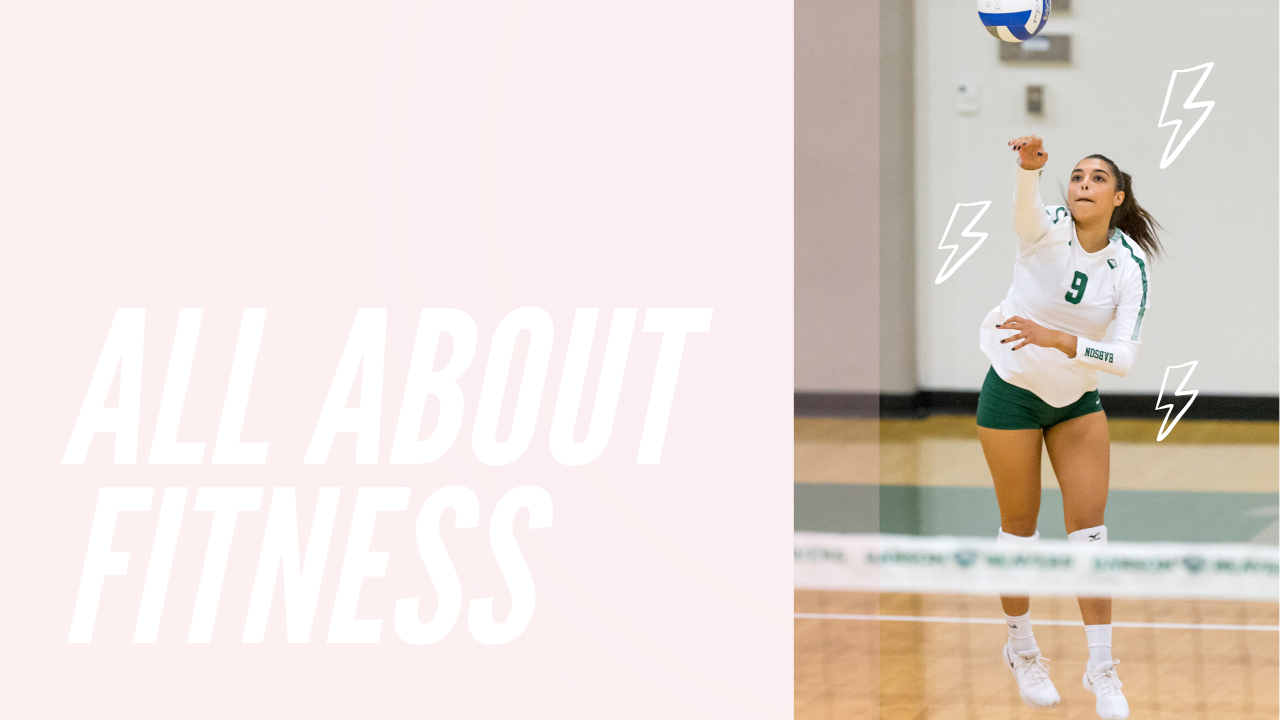
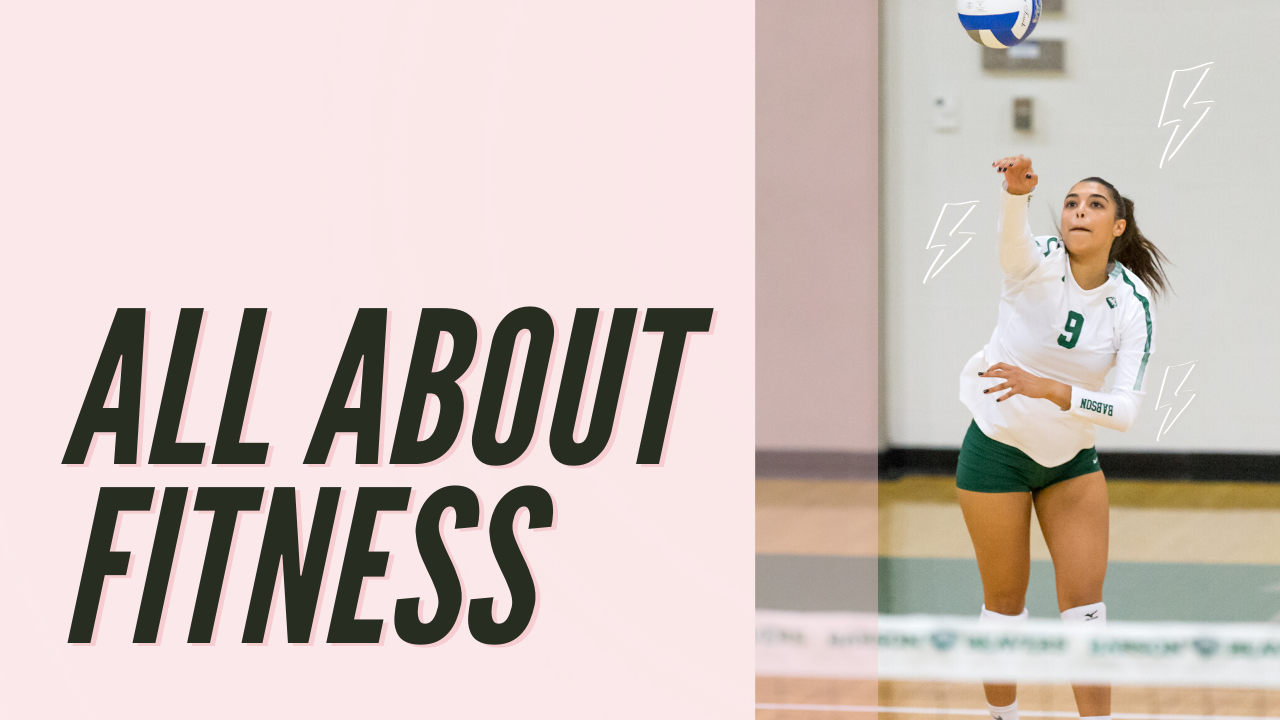
fitness

diff --git a/fitness.html b/fitness.html
@@ -14,32 +14,224 @@
   gtag('config', 'UA-169867388-1');
 </script>
 
+<style>
+
+h1 {  
+        margin-left: auto;
+        margin-right: auto;
+        margin-top: unset;   
+        margin-bottom: unset;     
+        text-align: center;
+        font-family: 'Montserrat', sans-serif;
+        top: 20%;
+        left: 20%;
+        font-size:80pt;
+        letter-spacing:0.1em;
+  -webkit-text-fill-color: transparent;
+  -webkit-text-stroke-width: 3px;
+  -webkit-text-stroke-color: #ffe6ee;
+  text-shadow: 8px 8px #ff1f8f, 20px 20px #000000;
+    
+    }
+
+ .topnav {
+        width: 100%;
+        display: block;
+        margin-left: auto;
+        margin-right: auto;
+        text-align: center;
+        
+    }
+
+    .topnav a {
+        padding: 14px 26px;
+        text-decoration: none;
+        color: black;
+        text-transform: uppercase;
+        font-size: 30pt;
+        font-family: 'Staatliches', cursive;
+    }
+
+    .topnav img {
+        margin-top: none;
+        margin-bottom: none;
+    }
+    a:link {
+        color: black;
+    }
+
+    a:visited {
+        color: black;
+    }
+
+    a:hover{
+        color: #ffe6ee ;
+    }
+    
+    a:active{
+        color: #ffe6ee;
+    }
+
+    hr {
+        width: 90%;
+    }
+    .body {
+        width: 100%;
+        
+    }
+    .align {
+        text-align: center;
+        padding: 25px 35px 25px 25px;
+    }
+
+.container {
+  position: relative;
+  width: 100%;
+}
+
+.image {
+  display: block;
+  width: 100%;
+  height: auto;
+  object-fit: contain;
+  float: left;
+  align-self: flex-start;
+  padding-bottom: 75px;
+
+}
+    p {
+        font-family: 'Lora', serif;
+        line-height: 50px;
+        font-size: 18pt;
+    }
+
+    #navbar {
+        overflow: hidden;
+        background-color: white;
+    }
+
+    #navbar a {
+        float: inline;
+        display: inline-block;
+        color: black;
+        text-align: center;
+        padding: 14px 16px;
+        text-decoration: none;
+    }
+
+    #navbar a:hover {
+  background-color: #ddd;
+  color: black;
+}
+
+#navbar a.active {
+  background-color: #ffe6ee;
+  color: white;
+}
+
+.sticky {
+    position: fixed;
+    top: 0;
+    width: 100%;
+}
+
+.sticky + .content {
+    padding-top: 60px;
+}
+.footer {
+        position: relative;
+        left: 0;
+        bottom: 0;
+        width: 100%;
+        height: 100%;
+        background-color: #ffe6ee;
+        color: white;
+        text-align: center;
+        padding: 15px;
+}
+
+      .footer a {
+        text-decoration: none;
+        font-family: 'Montserrat', sans-serif;
+       text-transform: uppercase;
+        color: white;
+        font-size: 30pt;
+      }
+
+      .footer a:visited{
+        color: white;
+      }
+
+      .footer a:hover {
+        color: black;
+      }
+      
+      .footer a:active {
+        color: black;
+      }
+
+      #title {
+    font-size: 48pt;
+    font-family: 'Montserrat', sans-serif;
+    text-shadow: 4px 4px #ffe6ee;
+    padding: 35px 25px;
+    
+}
+</style>
+
 </head>
 <body>
-    <div class="topnav">
+    <link href="https://fonts.googleapis.com/css2?family=Barlow:wght@900&family=Lora:wght@400;500&family=Montserrat:ital,wght@1,900&family=Open+Sans&family=Raleway:ital,wght@1,900&family=Staatliches&display=swap" rel="stylesheet">
+    <div id="navbar" class="topnav">
+        <h1 id="navbar">THE SINLESS FORK</h1>
         <a href="index.html">About Me</a>
-        <a href="fitness.html">Fitness</a>
         <a href="wellness.html">Wellness</a>
-        <button><img src="images/logo.png" alt="Logo" height="250"><a class="active" href="index.html"></a></a></button>
         <a href="healthyeats.html">Healthy Eats</a>
         <a href="notsohealthyeats.html">Not So Heathy Eats</a>
+        <a class="active" href="fitness.html">Fitness</a>
         <a href="contactpage.html">Contact</a>
-      </div>
-      <img src="images/fitnessbanner.png" alt="fitness">
-    <h1>Let's Get Sweating</h1>
-    <p>I want to keep it blunt with you guys. When I am looking towards staying in shape and continuing to build lean muscle mass and cut fat, I workout first thing in the 
+        <hr id="thin">
+      </div>   
+      <div class="container">
+        <img src="images/fitnessbanner.png" class="image" alt="fitness" title="Fitness Banner">
+
+      </div>   
+
+      <div class="body">
+        <p id="title" class="align">
+            LET'S GET SWEATING
+        </p>
+    
+    <p class="align">I want to keep it blunt with you guys. When I am looking towards staying in shape and continuing to build lean muscle mass and cut fat, I workout first thing in the 
         morning 4-5 times a week. The reason I workout first thing in the morning is because your body continues to burn calories at a faster rate throughout the day. Also, I find my days much more productive when I 
         finish my workout early morning and have the rest of my day to do whatever I need, it makes me feel more energized. However, fitness and physical activity is only 10% of the battle. The main priority to 
         reaching the best version of you physical self is through proper nutrition. You will not make substantial progress until you corrcet that your relationship with food and know what your getting into.
     </p>
-    <p>Yet, looking good is not the only reason I workout. I love to workout because it makes me feel better both mentally, and emotionally. It is a stress reliever for me to be able to plug in my headphones and disconnect from my hectic schedule
+    <p class="align">Yet, looking good is not the only reason I workout. I love to workout because it makes me feel better both mentally, and emotionally. It is a stress reliever for me to be able to plug in my headphones and disconnect from my hectic schedule
         for at least one hour everyday. Whether it be going on an outdoor run, stretching, weightlifting, a HIIT exercise, or even go for an outdoor walk, getting my body moving and sweating works wonders for me. It improves my overall health and mood.
     </p>
-    <p>
+    <p class="align">
         All in all, I urge you to keep this in mind: find a workout that makes YOU happy. That will adhere the best results. If you read online that cycling helps burn up to 600 calories per hour but you absolutely hate every 
         second of it, you will not last long doing it. FInd something that you enjoy and you'll not only be able to last longer doing it but you'll expend more energy as you're doing it.
     </p>
+</div>
     <br>
+    <div class="footer">
+        <p><a href="sitemap.html">Sitemap</a></p>
+        <br>
+    <script>
+        window.onscroll = function() {myFunction()};
+        
+        let navbar = document.getElementById("navbar");
+        let sticky = navbar.offsetTop;
+        
+        function myFunction() {
+          if (window.pageYOffset >= sticky) {
+            navbar.classList.add("sticky")
+          } else {
+            navbar.classList.remove("sticky");
+          }
+        }
+        </script>
 </body>
-<a href="sitemap.html">Refer Back to my Sitemap</a>
 </html>
